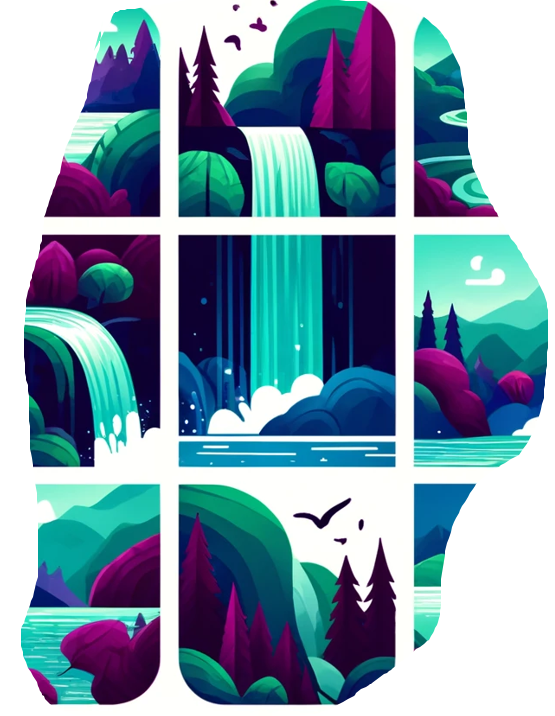
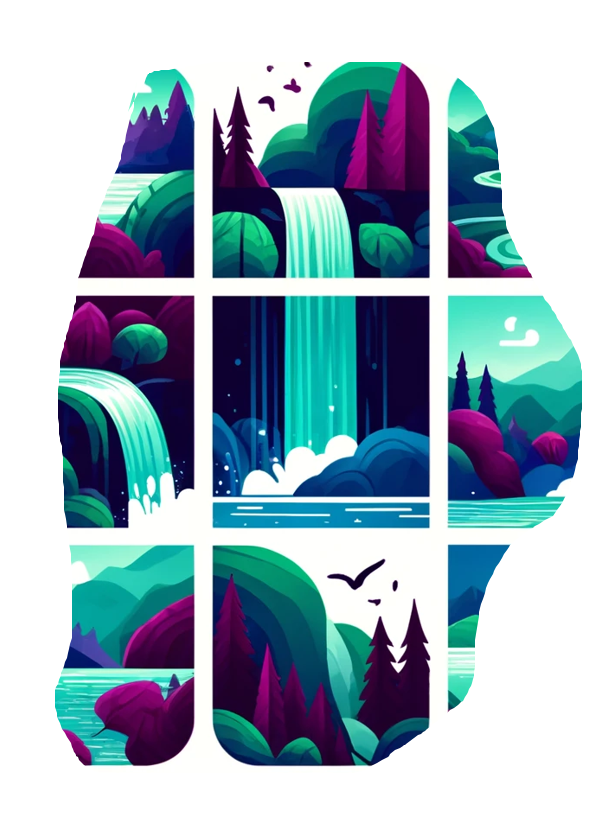
fix: Change images

diff --git a/styles/index.css b/styles/index.css
@@ -21,7 +21,7 @@ body {
   position: absolute;
   top: 0;
   left: 0;
-  background-image: url(../imgs/index.webp);
+  background-image: url(../imgs/index.png);
   background-repeat: no-repeat;
   background-position: bottom;
   background-size: cover;
